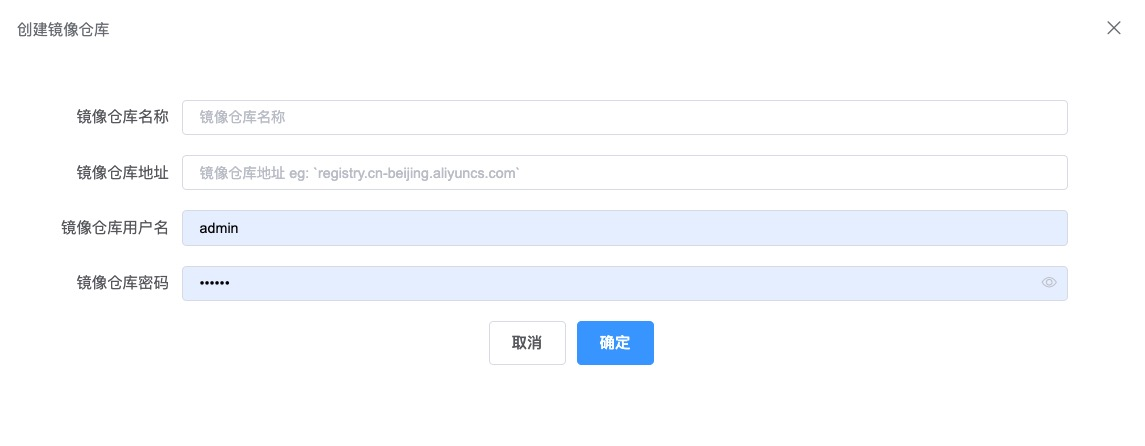
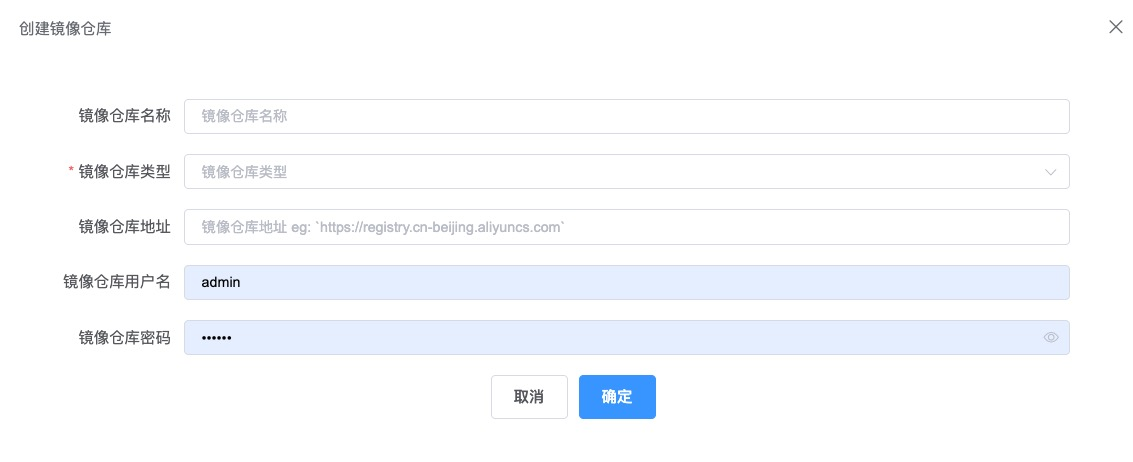
refactor(SBOM) 修改软件安全部分文档

diff --git a/docs/user/image.md b/docs/user/image.md
@@ -5,6 +5,7 @@
 
 > 首先可以在系统中绑定镜像仓库，之后检测的镜像可以从绑定的镜像仓库中查找和获取的，点击上方的创建镜像仓库，可以添加新的仓库。在页面中需要填入一下信息：  
 * 镜像仓库名称：在本系统中显示的镜像仓库别名  
+* 镜像仓库类型：目前支持两种类型 harbor 和 other。如果选择 other 不会同步镜像，只做登录验证，后续获取镜像需要指定镜像地址。
 * 镜像仓库地址：镜像仓库的实际访问地址，请确保 HummerRisk 和仓库地址网络畅通  
 * 镜像仓库用户名：登录镜像仓库用的用户名  
 * 镜像仓库密码：登录镜像仓库的用户对应的密码
@@ -22,19 +23,19 @@
 ![镜像管理](../img/user/image.png)
 
 > 新增镜像信息。点击[创建镜像按钮]，在弹出填写相关信息可以新增镜像。
+
+* Sbom 项目：需要指定一个项目
+* 项目版本：需要选择项目中的一个版本
 * 镜像名称：新建镜像在系统中显示的名称，按需要填写即可。
 * 是否绑定镜像仓库：打开开关，就表示使用前面已经绑定好的仓库，可以从下拉列表中选择要使用的仓库。
 * 是否启用代理：如果访问仓库需要通过代理连接，可以打开开关，并且选择代理。此处的代理需要在[设置]>[系统设置]>[代理设置]中进行配置。
 * 是否上传镜像图片：新建镜像默认使用docker图标，如果需要替换可以打开本开关，上传图片。
-* 镜像类型：支持两种镜像类型，一是填写镜像地址和标签信息。二是直接上传tar包。
+* 镜像类型：支持三种镜像类型
+  * 镜像仓库获取，前面选取好绑定的镜像仓库后，从已经同步的镜像信息中选择一个。
+  * 填写镜像地址和标签信息，绑定的仓库是不支持自动同步的，需要指定镜像地址等信息
+  * 直接上传tar包。
 
-![镜像管理](../img/user/image_add.png)
-
-### 镜像检测规则
-
-> 镜像检测规则页面，可以添加、修改、查看所有镜像检测规则。当前镜像的检测是基于默认规则，此处的规则暂时不能自定规则，新建和修改规则不会产生影响。
-
-![镜像检测规则](../img/user/image_rule.png)
+![镜像管理](../img/user/add_image.jpg)
 
 ### 执行镜像检测
 > 在镜像列表中，选择希望执行检测的镜像，点击列表后的[检测]按钮，确认后系统就会对该镜像进行检测。

diff --git a/docs/user/package.md b/docs/user/package.md
@@ -1,22 +1,26 @@
-### 软件包管理
+软件依赖主要是检测软件相关依赖的漏洞风险，主要集中情况下使用：
+* 没有源码，只有编译后的打包结果，比如 .jar/.war等文件
+  * 目前支持最好的java和.Net两种语言
+* 有源码包，并没有使用仓库管理
 
-> 软件包管理列表页面提供了对软件包的创建、删除、编辑、查找、校验、检测等操作。
+### 软件包管理   
+
+首先我们需要对希望检测的软件包进行管理，软件包管理列表页面提供了对软件包的创建、删除、编辑、查找、校验、检测等操作。
 
 ![软件包管理](../img/user/package.png)
 
-> 新增软件包信息。软件包可绑定代理。
+新增加一个软件包需要三步
+* 软件包基本信息填写，包括项目、版本、名称和代理信息。
+* 设置软件包的图片，这里系统提供了没人图片可以使用，也可以自己上传图片
+* 上传实际的待检软件包。请注意上传的文件类型的支持列表。目前支持最好的java和.Net两种语言。
 
-![软件包管理](../img/user/package_add.png)
+![软件包管理](../img/user/package_add.jpg)
 
-### 软件包检测规则
-
-> 软件包检测规则列表页面，可以添加、修改、查看所有软件包检测规则。
-
-![软件包检测规则](../img/user/package_rule.png)
 
 ### 软件包检测结果
 
-> 软件包检测结果列表页面，可以查看所有软件包检测结果。
+> 执行检测后，可以在检测结果查看相关信息，列表中数据会直接显示检测发现的漏洞，点击可以查看列表。  
+> 点击检测状态列的按钮，可以查看结果的详细日志，包括检测到所有可能的漏洞信息，及软件包相关的软件物料清单信息。
 
 ![软件包检测结果](../img/user/package_result.png)
 

diff --git a/docs/user/sbom.md b/docs/user/sbom.md
@@ -2,12 +2,12 @@
 
 ![sbom基本结构](../img/user/sbom_basic_arch.jpg){ width="500px" }
 ### 项目管理
-我们首先需要创建项目，填写基本的名称和描述即可。
+项目是整个软件安全部分的顶级逻辑概念，我们首先需要创建项目，填写基本的名称和描述即可。
 
 创建完成项目后，还需要创建版本，点击项目列表后的 [版本管理] 按钮打开页面。
 ![sbom项目版本](../img/user/sbom_add_version.jpg){ width="900px" }
 
-点击创建项目版本可以新建版本，在创建完版本后，还可以管理版本管理的检测内容，调整各种配置。也可以点击一键检测，执行检测任务。
+项目之下就是版本，版本也是直接和各个检测元素关联。点击创建项目版本可以新建版本，在创建完版本后，还可以管理版本管理的检测内容，调整各种配置。也可以点击一键检测，执行检测任务。
 ![sbom项目版本配置](../img/user/sbom_version_config.jpg){ width="900px" }
 ### SBOM 分析
 
